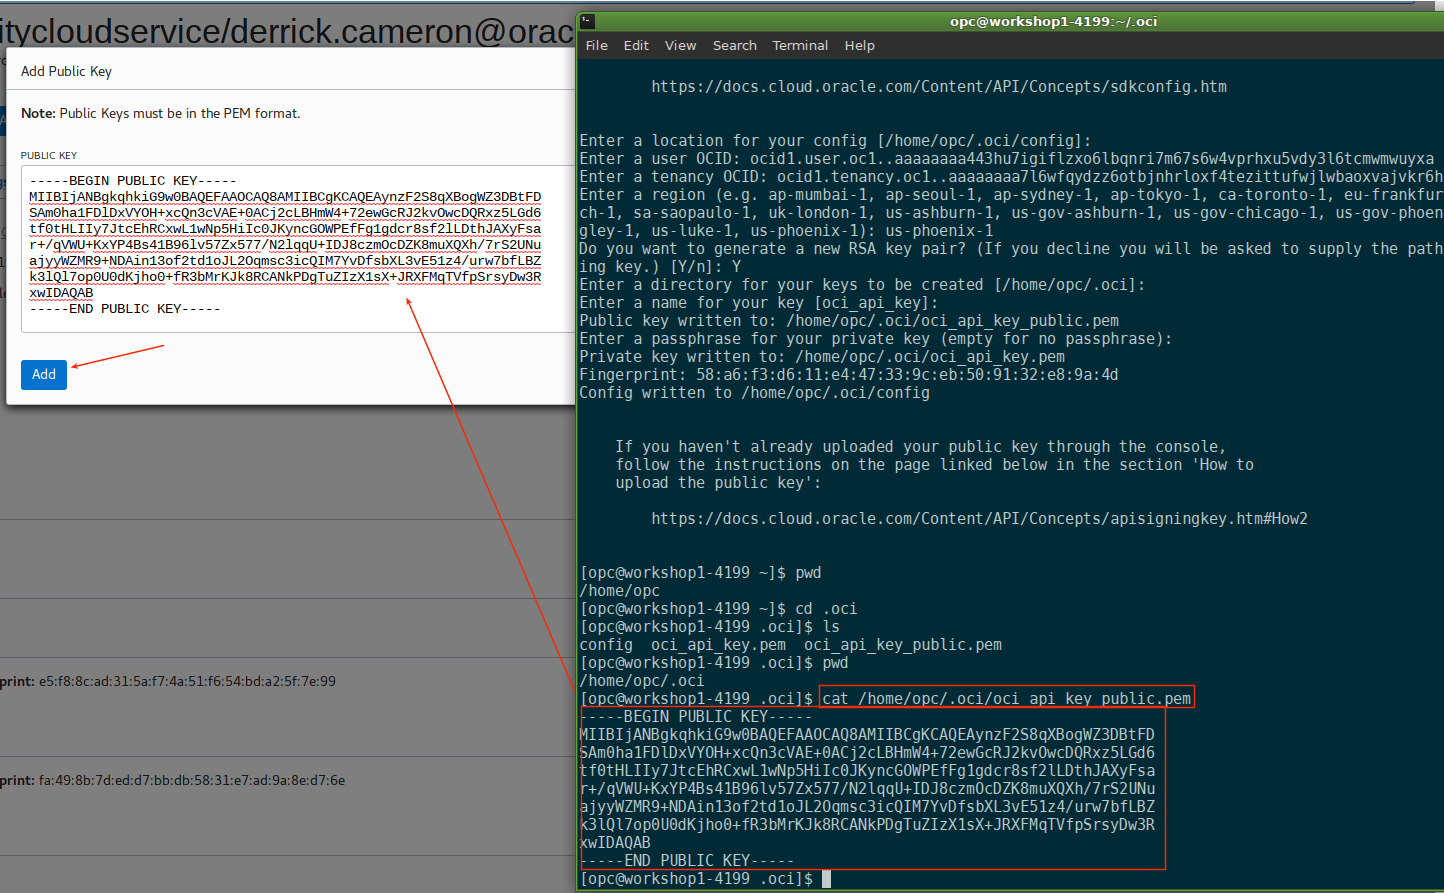
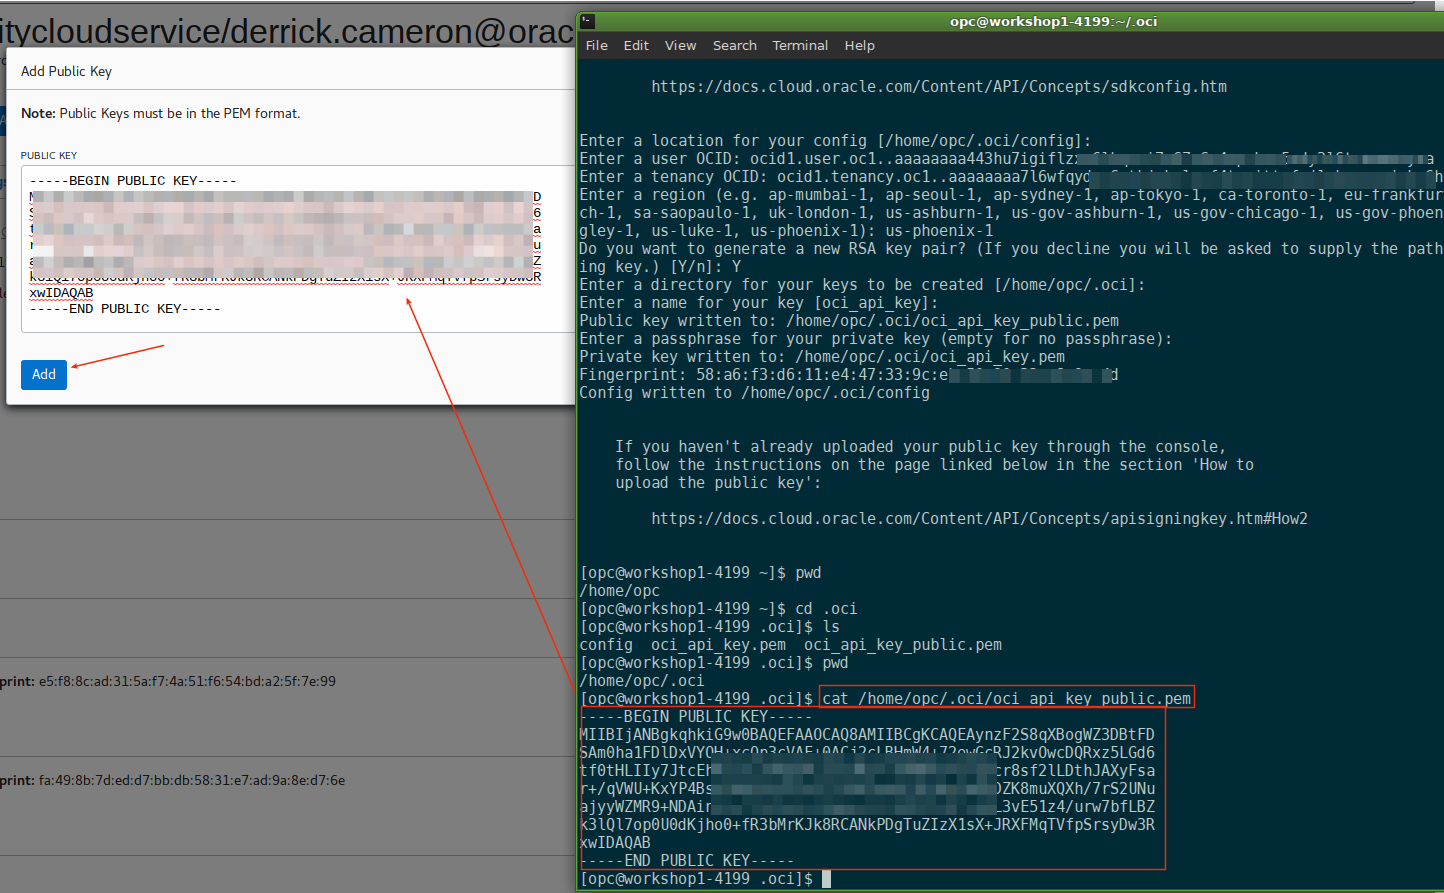
updates

diff --git a/workshops/dbcs-dba-oci/4.md b/workshops/dbcs-dba-oci/4.md
@@ -474,8 +474,8 @@ oci setup config (take the defaults)
 
 
 Enter a location for your config [/home/opc/.oci/config]: 
-Enter a user OCID: ocid1.user.oc1..aaaaaaaa443hu7igiflzxo6lbqnri7m67s6w4vprhxu5vdy3l6tcmw
-Enter a tenancy OCID: ocid1.tenancy.oc1..aaaaaaaa7l6wfqydzz6otbjnhrloxf4tezittufwjlwbaoxvajvkr6
+Enter a user OCID: ocid1.user.oc1..aaaaaaaa443hu7igiflzxo6lbqnri7m67s6w4vprhxu5vdy3l6
+Enter a tenancy OCID: ocid1.tenancy.oc1..aaaaaaaa7l6wfqydzz6otbjnhrloxf4tezittufwjlwbaoxvaj
 Enter a region (e.g. ap-mumbai-1, ap-seoul-1, ap-sydney-1, ap-tokyo-1, ca-toronto-1, eu-frankfurt-1, eu-zurich-1, sa-saopaulo-1, uk-london-1, us-ashburn-1, us-gov-ashburn-1, us-gov-chicago-1, us-gov-phoenix-1, us-langley-1, us-luke-1, us-phoenix-1): us-phoenix-1
 Do you want to generate a new RSA key pair? (If you decline you will be asked to supply the path to an existing key.) [Y/n]: Y
 Enter a directory for your keys to be created [/home/opc/.oci]: 
@@ -483,7 +483,7 @@ Enter a name for your key [oci_api_key]:
 Public key written to: /home/opc/.oci/oci_api_key_public.pem
 Enter a passphrase for your private key (empty for no passphrase): 
 Private key written to: /home/opc/.oci/oci_api_key.pem
-Fingerprint: 58:a6:f3:d6:11:e4:47:33:9c:eb:50:91:32:e8
+Fingerprint: 58:a6:f3:d6:11:e4:47:33:9c:eb:50:91:32
 Config written to /home/opc/.oci/config
 
 
